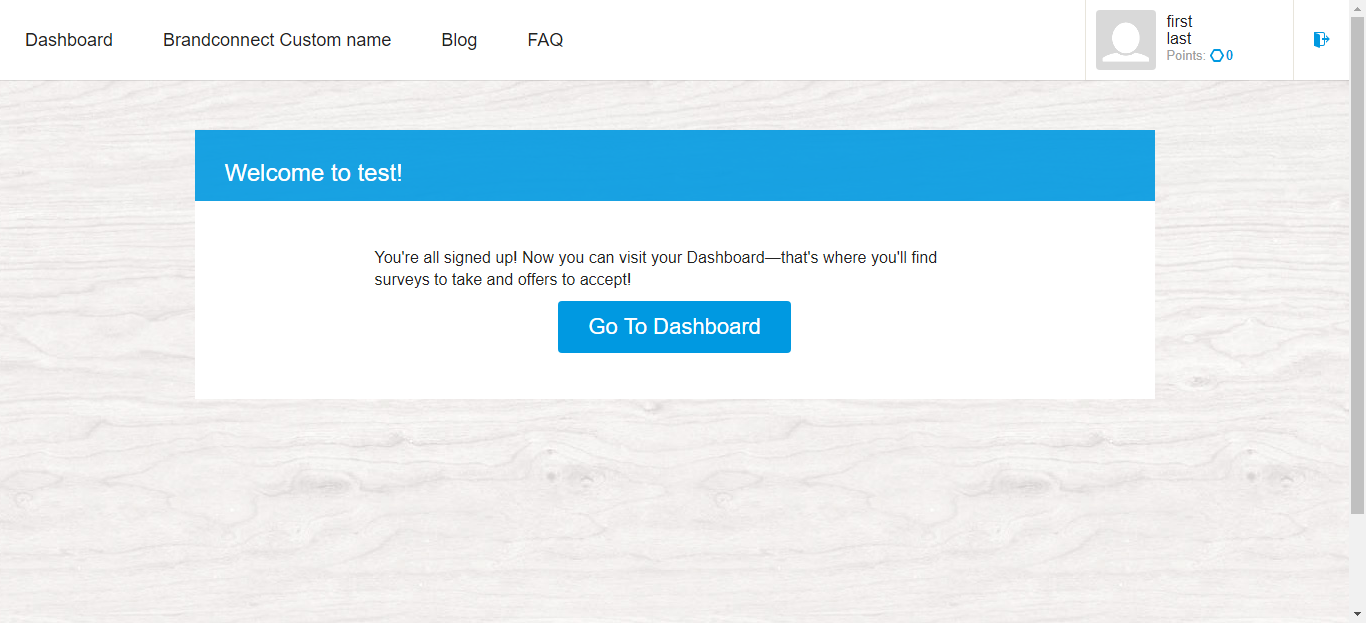
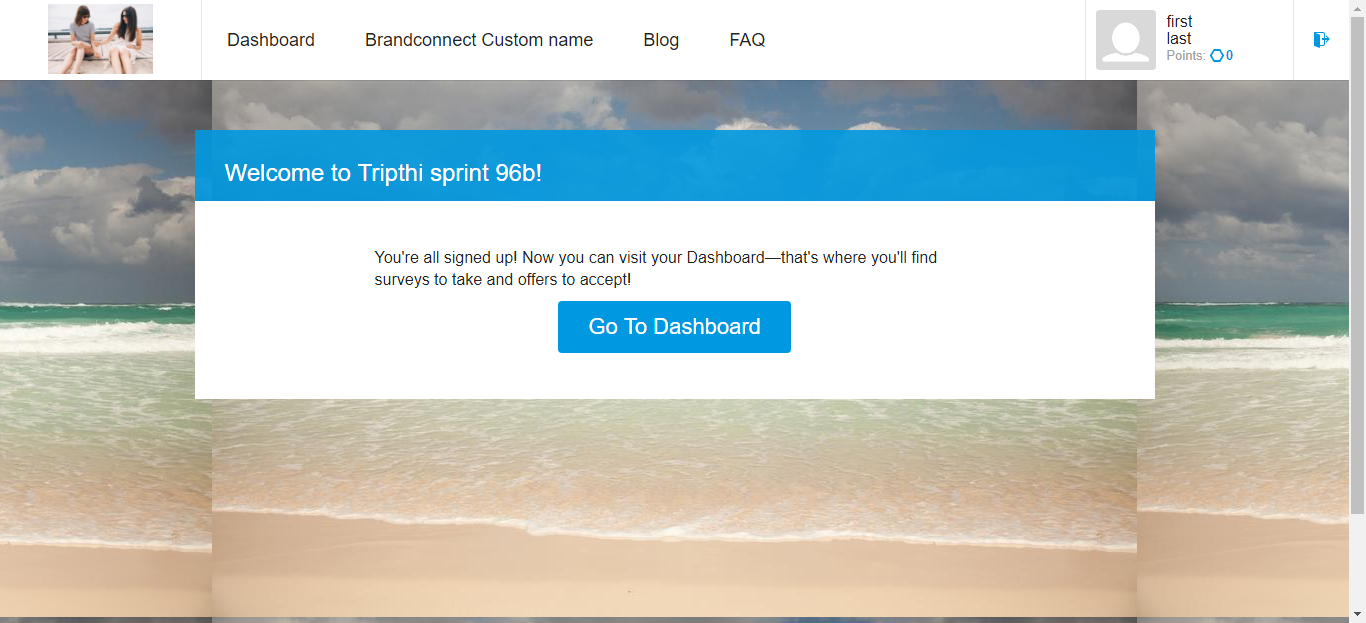
admin member

diff --git a/tests/Smoke/downloadAnalytics.js b/tests/Smoke/downloadAnalytics.js
@@ -1,23 +1,22 @@
-//comment 1
-var downloadImages = function(driver)
+ar downloadImages = function(driver)
 {
     driver
-    .url("https://burst.shopify.com/")
-    .pause(3000)
-    .waitForElementVisible('body', 1000)
-    .useXpath()
-    //download activity badge
-    .pause(2000)
-    .setValue("//input[@class='marketing-input search-form__input  search-form__input--jumbo']", "beach")
-    .pause(1000)
-    .keys(driver.Keys.ENTER)
-    .pause(3000)
-    .click("(//div[@class='grid '])[1]/div[2]/div[1]")
-    .pause(2000)
-    .click("//label[@for='photo_download_quality_standard']")
-    .pause(2000)
-    .click("//button[@data-ga-action='Download']")
-    .pause(4000)
+.url("https://burst.shopify.com/")
+.pause(3000)
+.waitForElementVisible('body', 1000)
+.useXpath()
+//download activity badge
+.pause(2000)
+.setValue("//input[@class='marketing-input search-form__input  search-form__input--jumbo']", "beach")
+.pause(1000)
+.keys(driver.Keys.ENTER)
+.pause(3000)
+.click("//img[@alt='blue beach waves']")
+.pause(2000)
+.click("//label[@for='photo_download_quality_standard']")
+.pause(2000)
+.click("//button[@class='marketing-button marketing-button--block js-open-contextual-subscribe-modal-on-third']")
+.pause(4000)
 }
 
 var adminlogin =  function(driver)
@@ -127,7 +126,7 @@ var downloadAnalytics = function(driver)
     //add logo
     .click("(//button[@ng-click='deleteImage()'])[1]")
     .pause(2000)
-    .setValue("(//div[@class='btn btn-upload btn-primary'])[1]/input",driver.globals.userNames.path + "beach-pals_925x.jpg")
+    .setValue("(//div[@class='btn btn-upload btn-primary'])[1]/input",driver.globals.userNames.path + "blue-beach-waves_925x.jpg")
     .pause(3000)
     // enable benchmarks switch
     .click("//input[@id='switch_cb_ctrl.report.benchmarks_enabled']")
@@ -200,7 +199,7 @@ var downloadAnalytics = function(driver)
     .pause(2000)
     .setValue("//input[@ng-model='shareId']",driver.globals.userNames.uin)
     .pause(2000)
-    .waitForElementVisible("//ul[@id='ui-id-3']/li/a",2000)
+    //.waitForElementVisible("//ul[@id='ui-id-3']/li/a",2000)
     .moveToElement("//ul[@id='ui-id-3']/li/a",1,1)
     .pause(2000)
     .mouseButtonClick(1)

diff --git a/tests/globals.js b/tests/globals.js
@@ -1,7 +1,7 @@
 var userNames = {
   
-  memberURL: 'https://suksprint95k.staging.socialmedialink.com/',
-  memberEmail: 'robs@yopmail.com',
+  memberURL: 'http://tripsprint96a.staging.socialmedialink.com',
+  memberEmail: 'subs@yopmail.com',
   memberPassword: 'general1234',
   memberFirstName: 'first',
   memberLastName: 'last',
@@ -15,7 +15,7 @@ var userNames = {
 
   sprint: '96a',
   adminURL: 'https://admin.staging.socialmedialink.com',
-  adminEmail: 'ser@yopmail.com',
+  adminEmail: 'tripsprint96a@yopmail.com',
   adminPassword: 'General123$',
   facebookEmail: 'sukada.testmember8@socialmedialink.com',
   facebookPass: 'general1234',
@@ -32,8 +32,8 @@ var userNames = {
   account_no: 667,
   path: 'C:/Users/you/Downloads/',
   memberEmailFemale: 'leena@yopmail.com',
-  darDate:"(//td[@class='day'])[27]",
-  uin:'12448',
+  darDate:"(//td[@class='day'])13",
+  uin:'12553',
   pinterestUserName:'sukadamr',
   usAddressLine1:'6010',
   usAddressLine2:'Boulevard East',

diff --git a/tests/Smoke/adminMembers.js b/tests/Smoke/adminMembers.js
@@ -65,7 +65,9 @@ var memberTab = function(driver)
 .click("//li[@class='mf-option-button']/button")
 .pause(2000)
 .execute('scrollTo(0,5000)')
-//filter by age
+
+
+
 
 
 

diff --git a/nightwatch.js b/nightwatch.js
@@ -1,1 +1,1 @@
-require('/Users/tripthi/Desktop/Nightwatch/nightwatch/bin/runner.js');
+require('/Users/sukada/Desktop/Nightwatch/nightwatch/bin/runner.js');
